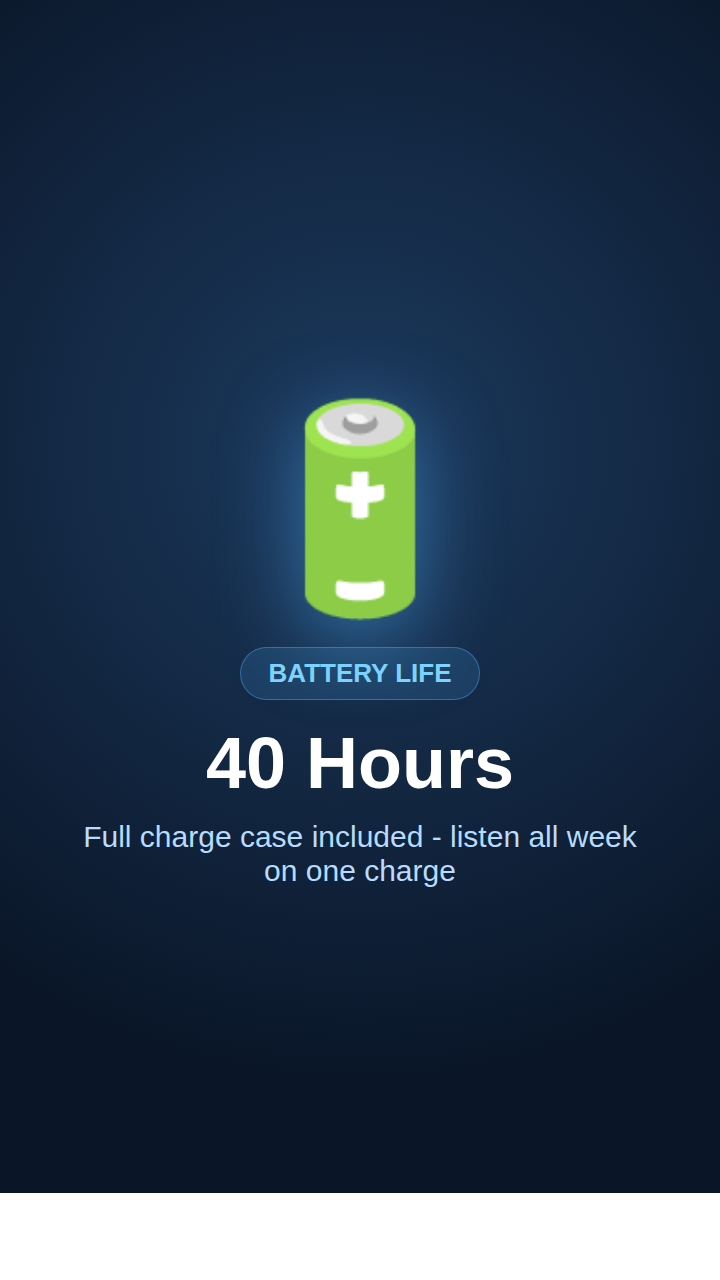
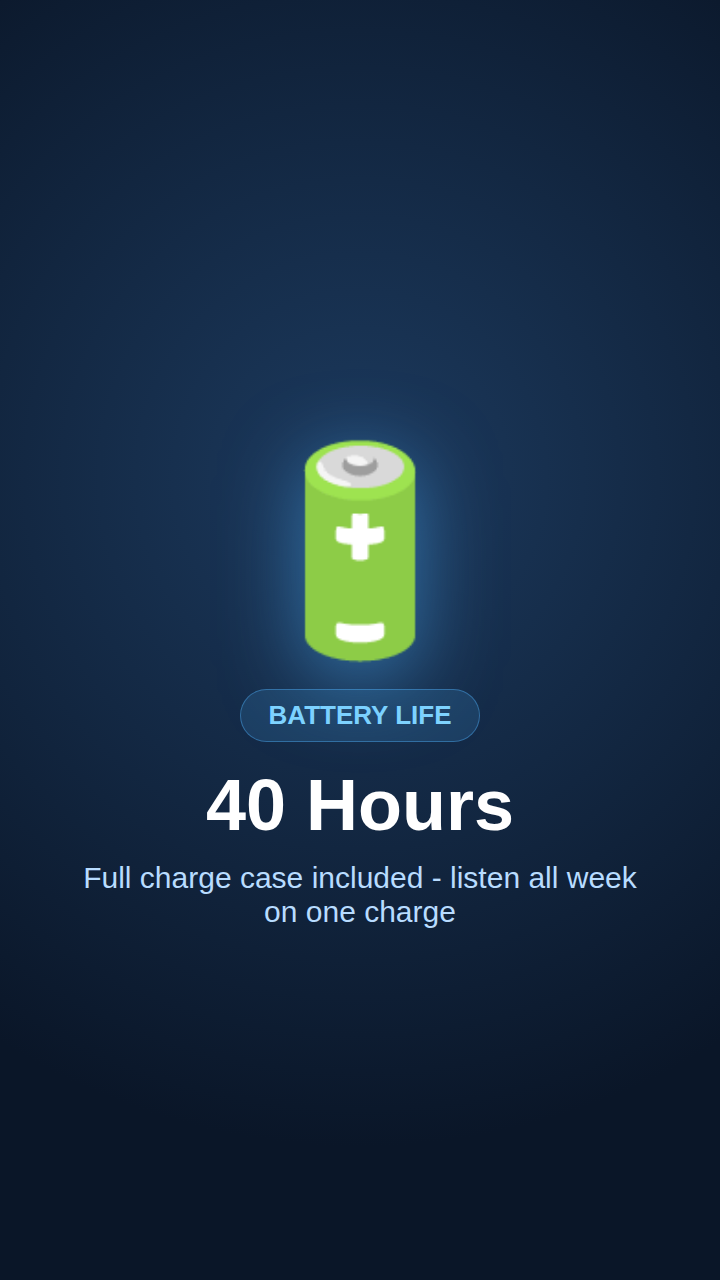
Fix a white band baked into the bottom of every mockup screenshot
All 12 demo mockup images (generated via headless Chrome screenshots)
had a solid white strip along the bottom ~7% of the image - the Chrome
--screenshot capture was rendering slightly more viewport height than
the HTML content actually filled, leaving the <html> root's default
white background visible below the body's fixed-height gradient. This
was invisible on a quick look at full-frame single-image layouts but
became obvious once photos were shown smaller (e.g. side by side in a
grid), where it showed up as a solid white/gray bar - which looked at
first like a Remotion/Chromium rendering bug but wasn't.

Fixed the HTML (min-height:100vh instead of a fixed px height, plus an
explicit html{height:100%}) and regenerated every mockup by rendering
taller than needed (720x1450) and cropping to the exact 720x1280, which
reliably avoids the phantom bottom margin regardless of viewport quirks.
Verified pixel-by-pixel that no white remains at the edges of any of the
12 images.

Changed region(s): [[0.1222, 0.3125, 0.8861, 0.7188], [0.0, 0.9062, 1.0, 1.0]]

diff --git a/demo/business-promo/mockup-src/hero.html b/demo/business-promo/mockup-src/hero.html
@@ -1,8 +1,9 @@
 <!DOCTYPE html>
 <html><head><meta charset="utf-8"><style>
   * { margin:0; padding:0; box-sizing:border-box; }
+  html { height:100%; }
   body {
-    width:720px; height:1280px;
+    width:720px; min-height:100vh;
     background: radial-gradient(circle at 50% 35%, #5a3420 0%, #2a1608 70%);
     font-family: -apple-system, 'Segoe UI', Roboto, Arial, sans-serif;
     display:flex; flex-direction:column; align-items:center; justify-content:center;

diff --git a/demo/business-promo/mockup-src/offer1.html b/demo/business-promo/mockup-src/offer1.html
@@ -1,8 +1,9 @@
 <!DOCTYPE html>
 <html><head><meta charset="utf-8"><style>
   * { margin:0; padding:0; box-sizing:border-box; }
+  html { height:100%; }
   body {
-    width:720px; height:1280px;
+    width:720px; min-height:100vh;
     background: radial-gradient(circle at 50% 35%, #6b3a10 0%, #2a1608 70%);
     font-family: -apple-system, 'Segoe UI', Roboto, Arial, sans-serif;
     display:flex; flex-direction:column; align-items:center; justify-content:center;

diff --git a/demo/business-promo/mockup-src/offer2.html b/demo/business-promo/mockup-src/offer2.html
@@ -1,8 +1,9 @@
 <!DOCTYPE html>
 <html><head><meta charset="utf-8"><style>
   * { margin:0; padding:0; box-sizing:border-box; }
+  html { height:100%; }
   body {
-    width:720px; height:1280px;
+    width:720px; min-height:100vh;
     background: radial-gradient(circle at 50% 35%, #2f5a2a 0%, #10240e 70%);
     font-family: -apple-system, 'Segoe UI', Roboto, Arial, sans-serif;
     display:flex; flex-direction:column; align-items:center; justify-content:center;

diff --git a/demo/business-promo/mockup-src/offer3.html b/demo/business-promo/mockup-src/offer3.html
@@ -1,8 +1,9 @@
 <!DOCTYPE html>
 <html><head><meta charset="utf-8"><style>
   * { margin:0; padding:0; box-sizing:border-box; }
+  html { height:100%; }
   body {
-    width:720px; height:1280px;
+    width:720px; min-height:100vh;
     background: radial-gradient(circle at 50% 35%, #6b2a3a 0%, #240e18 70%);
     font-family: -apple-system, 'Segoe UI', Roboto, Arial, sans-serif;
     display:flex; flex-direction:column; align-items:center; justify-content:center;

diff --git a/demo/mockup-src/feature1.html b/demo/mockup-src/feature1.html
@@ -1,8 +1,9 @@
 <!DOCTYPE html>
 <html><head><meta charset="utf-8"><style>
   * { margin:0; padding:0; box-sizing:border-box; }
+  html { height:100%; }
   body {
-    width:720px; height:1280px;
+    width:720px; min-height:100vh;
     background: radial-gradient(circle at 50% 35%, #1c3a5e 0%, #0a1628 70%);
     font-family: -apple-system, 'Segoe UI', Roboto, Arial, sans-serif;
     display:flex; flex-direction:column; align-items:center; justify-content:center;

diff --git a/demo/mockup-src/feature2.html b/demo/mockup-src/feature2.html
@@ -1,8 +1,9 @@
 <!DOCTYPE html>
 <html><head><meta charset="utf-8"><style>
   * { margin:0; padding:0; box-sizing:border-box; }
+  html { height:100%; }
   body {
-    width:720px; height:1280px;
+    width:720px; min-height:100vh;
     background: radial-gradient(circle at 50% 35%, #3a1c5e 0%, #150a28 70%);
     font-family: -apple-system, 'Segoe UI', Roboto, Arial, sans-serif;
     display:flex; flex-direction:column; align-items:center; justify-content:center;

diff --git a/demo/mockup-src/feature3.html b/demo/mockup-src/feature3.html
@@ -1,8 +1,9 @@
 <!DOCTYPE html>
 <html><head><meta charset="utf-8"><style>
   * { margin:0; padding:0; box-sizing:border-box; }
+  html { height:100%; }
   body {
-    width:720px; height:1280px;
+    width:720px; min-height:100vh;
     background: radial-gradient(circle at 50% 35%, #1c5e3a 0%, #0a281a 70%);
     font-family: -apple-system, 'Segoe UI', Roboto, Arial, sans-serif;
     display:flex; flex-direction:column; align-items:center; justify-content:center;

diff --git a/demo/mockup-src/hero.html b/demo/mockup-src/hero.html
@@ -1,8 +1,9 @@
 <!DOCTYPE html>
 <html><head><meta charset="utf-8"><style>
   * { margin:0; padding:0; box-sizing:border-box; }
+  html { height:100%; }
   body {
-    width:720px; height:1280px;
+    width:720px; min-height:100vh;
     background: radial-gradient(circle at 50% 35%, #2b2d6e 0%, #0d0e2b 70%);
     font-family: -apple-system, 'Segoe UI', Roboto, Arial, sans-serif;
     display:flex; flex-direction:column; align-items:center; justify-content:center;

diff --git a/demo/service/mockup-src/benefit1.html b/demo/service/mockup-src/benefit1.html
@@ -1,8 +1,9 @@
 <!DOCTYPE html>
 <html><head><meta charset="utf-8"><style>
   * { margin:0; padding:0; box-sizing:border-box; }
+  html { height:100%; }
   body {
-    width:720px; height:1280px;
+    width:720px; min-height:100vh;
     background: radial-gradient(circle at 50% 35%, #12587a 0%, #072030 70%);
     font-family: -apple-system, 'Segoe UI', Roboto, Arial, sans-serif;
     display:flex; flex-direction:column; align-items:center; justify-content:center;

diff --git a/demo/service/mockup-src/benefit2.html b/demo/service/mockup-src/benefit2.html
@@ -1,8 +1,9 @@
 <!DOCTYPE html>
 <html><head><meta charset="utf-8"><style>
   * { margin:0; padding:0; box-sizing:border-box; }
+  html { height:100%; }
   body {
-    width:720px; height:1280px;
+    width:720px; min-height:100vh;
     background: radial-gradient(circle at 50% 35%, #123f5a 0%, #071824 70%);
     font-family: -apple-system, 'Segoe UI', Roboto, Arial, sans-serif;
     display:flex; flex-direction:column; align-items:center; justify-content:center;

diff --git a/demo/service/mockup-src/benefit3.html b/demo/service/mockup-src/benefit3.html
@@ -1,8 +1,9 @@
 <!DOCTYPE html>
 <html><head><meta charset="utf-8"><style>
   * { margin:0; padding:0; box-sizing:border-box; }
+  html { height:100%; }
   body {
-    width:720px; height:1280px;
+    width:720px; min-height:100vh;
     background: radial-gradient(circle at 50% 35%, #5a4a0e 0%, #241d06 70%);
     font-family: -apple-system, 'Segoe UI', Roboto, Arial, sans-serif;
     display:flex; flex-direction:column; align-items:center; justify-content:center;

diff --git a/demo/service/mockup-src/hero.html b/demo/service/mockup-src/hero.html
@@ -1,8 +1,9 @@
 <!DOCTYPE html>
 <html><head><meta charset="utf-8"><style>
   * { margin:0; padding:0; box-sizing:border-box; }
+  html { height:100%; }
   body {
-    width:720px; height:1280px;
+    width:720px; min-height:100vh;
     background: radial-gradient(circle at 50% 35%, #0e4a5a 0%, #061c24 70%);
     font-family: -apple-system, 'Segoe UI', Roboto, Arial, sans-serif;
     display:flex; flex-direction:column; align-items:center; justify-content:center;
